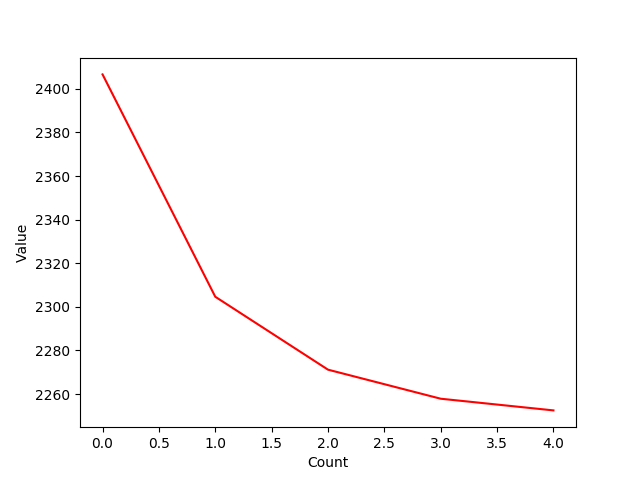
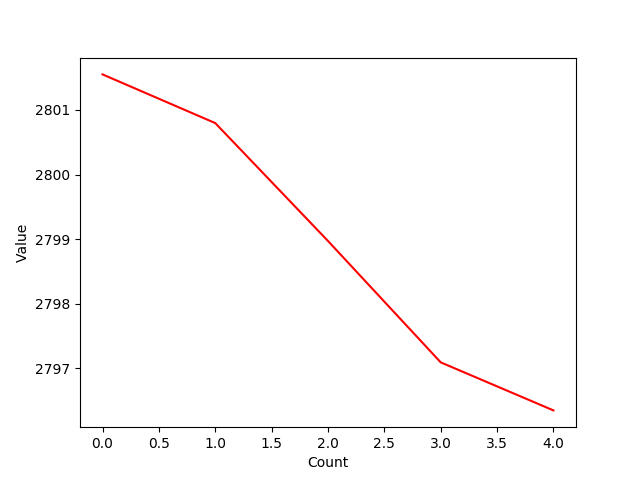
Automated Commision

diff --git a/rebalance-portfolio/sequential.py b/rebalance-portfolio/sequential.py
@@ -41,7 +41,7 @@ def sequential_prediction(model=None, stock_id=None, timeseries=None, date=None,
                 momentum += 1
                 bias += 1
                 bias *= (vix_average / 10)
-        bias /= momentum * 10
+        bias /= momentum * 20
         #print("\nBIAS = [", bias, "]\n")
 
         for count in range(5):
